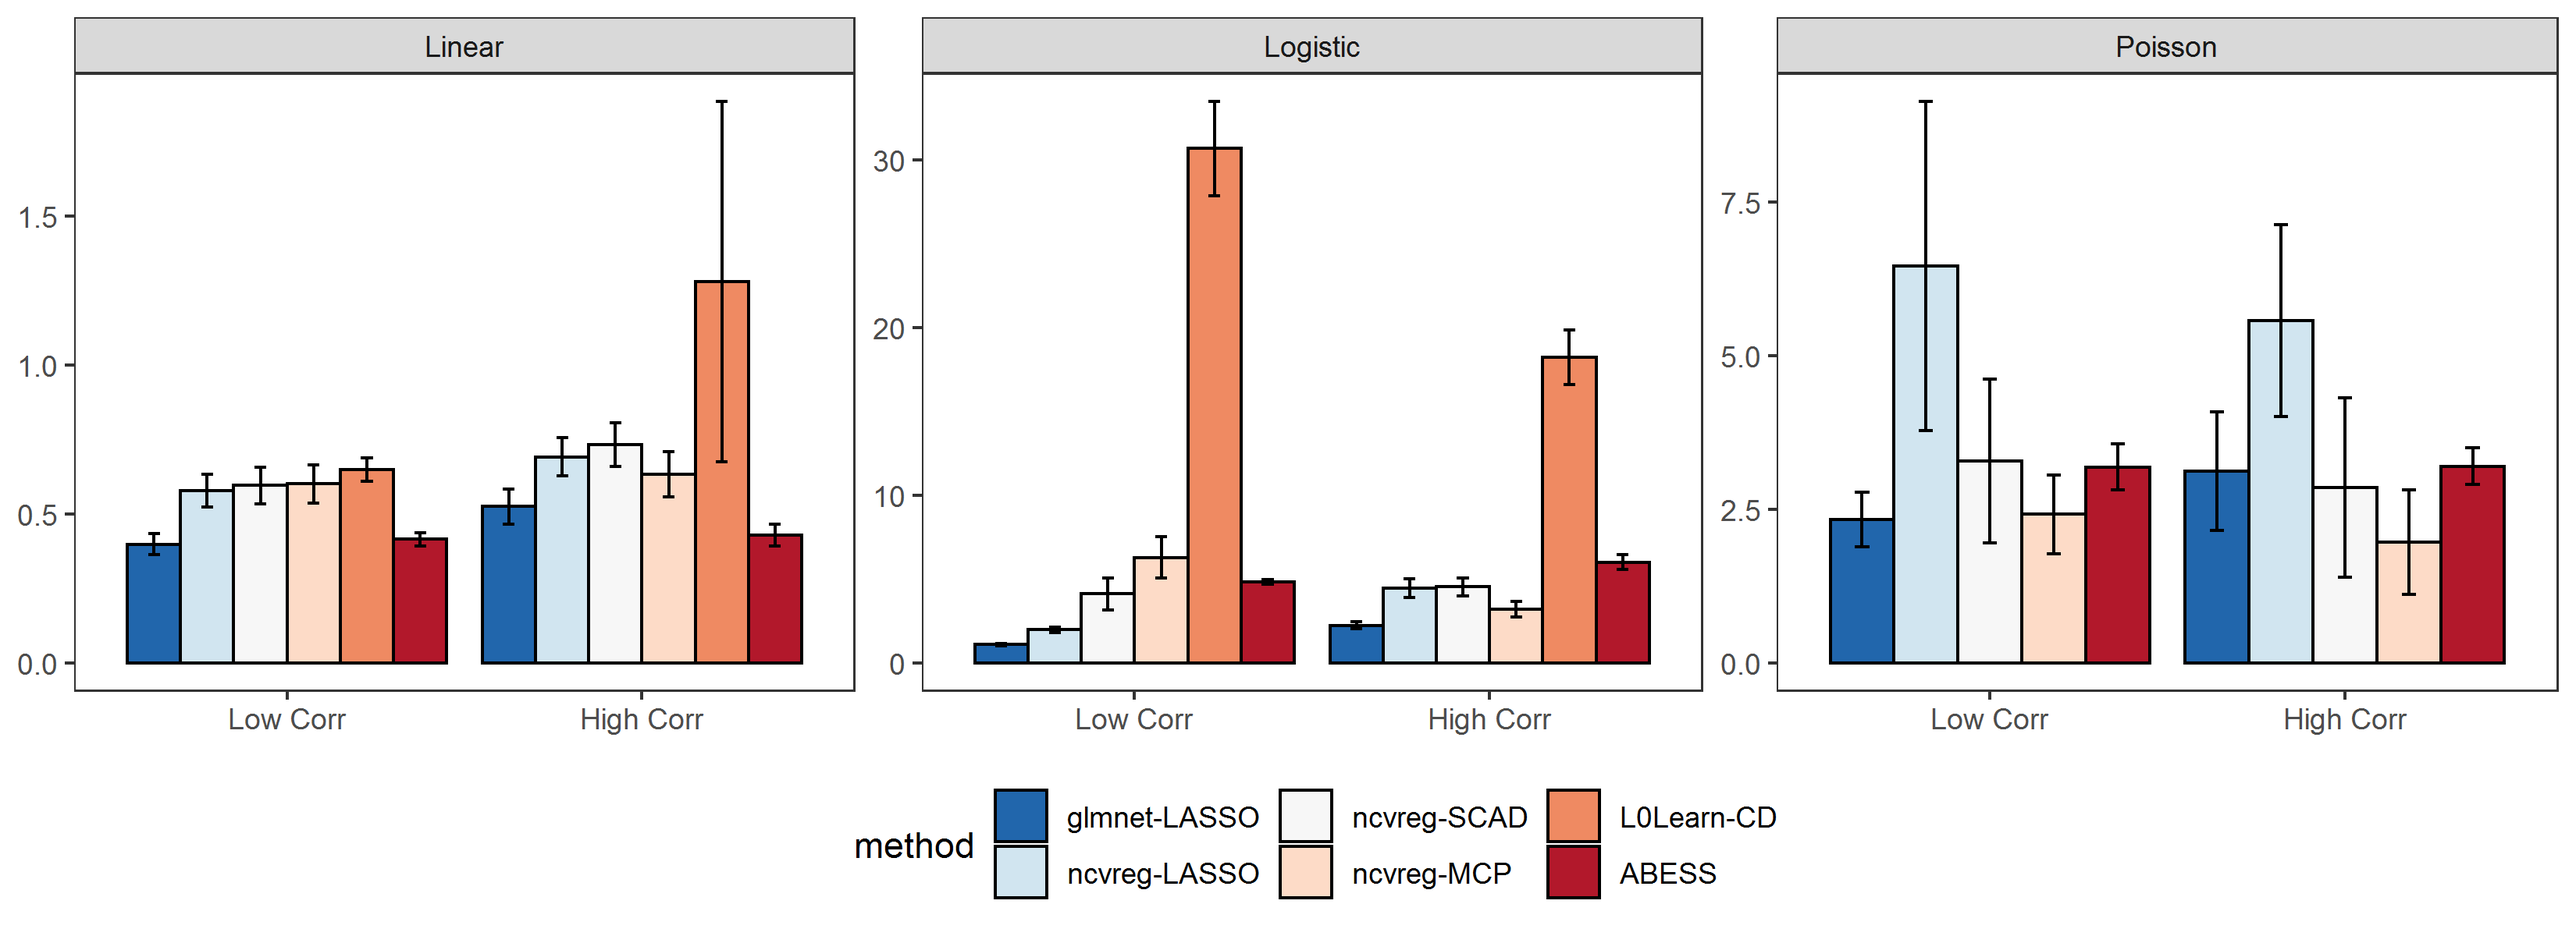
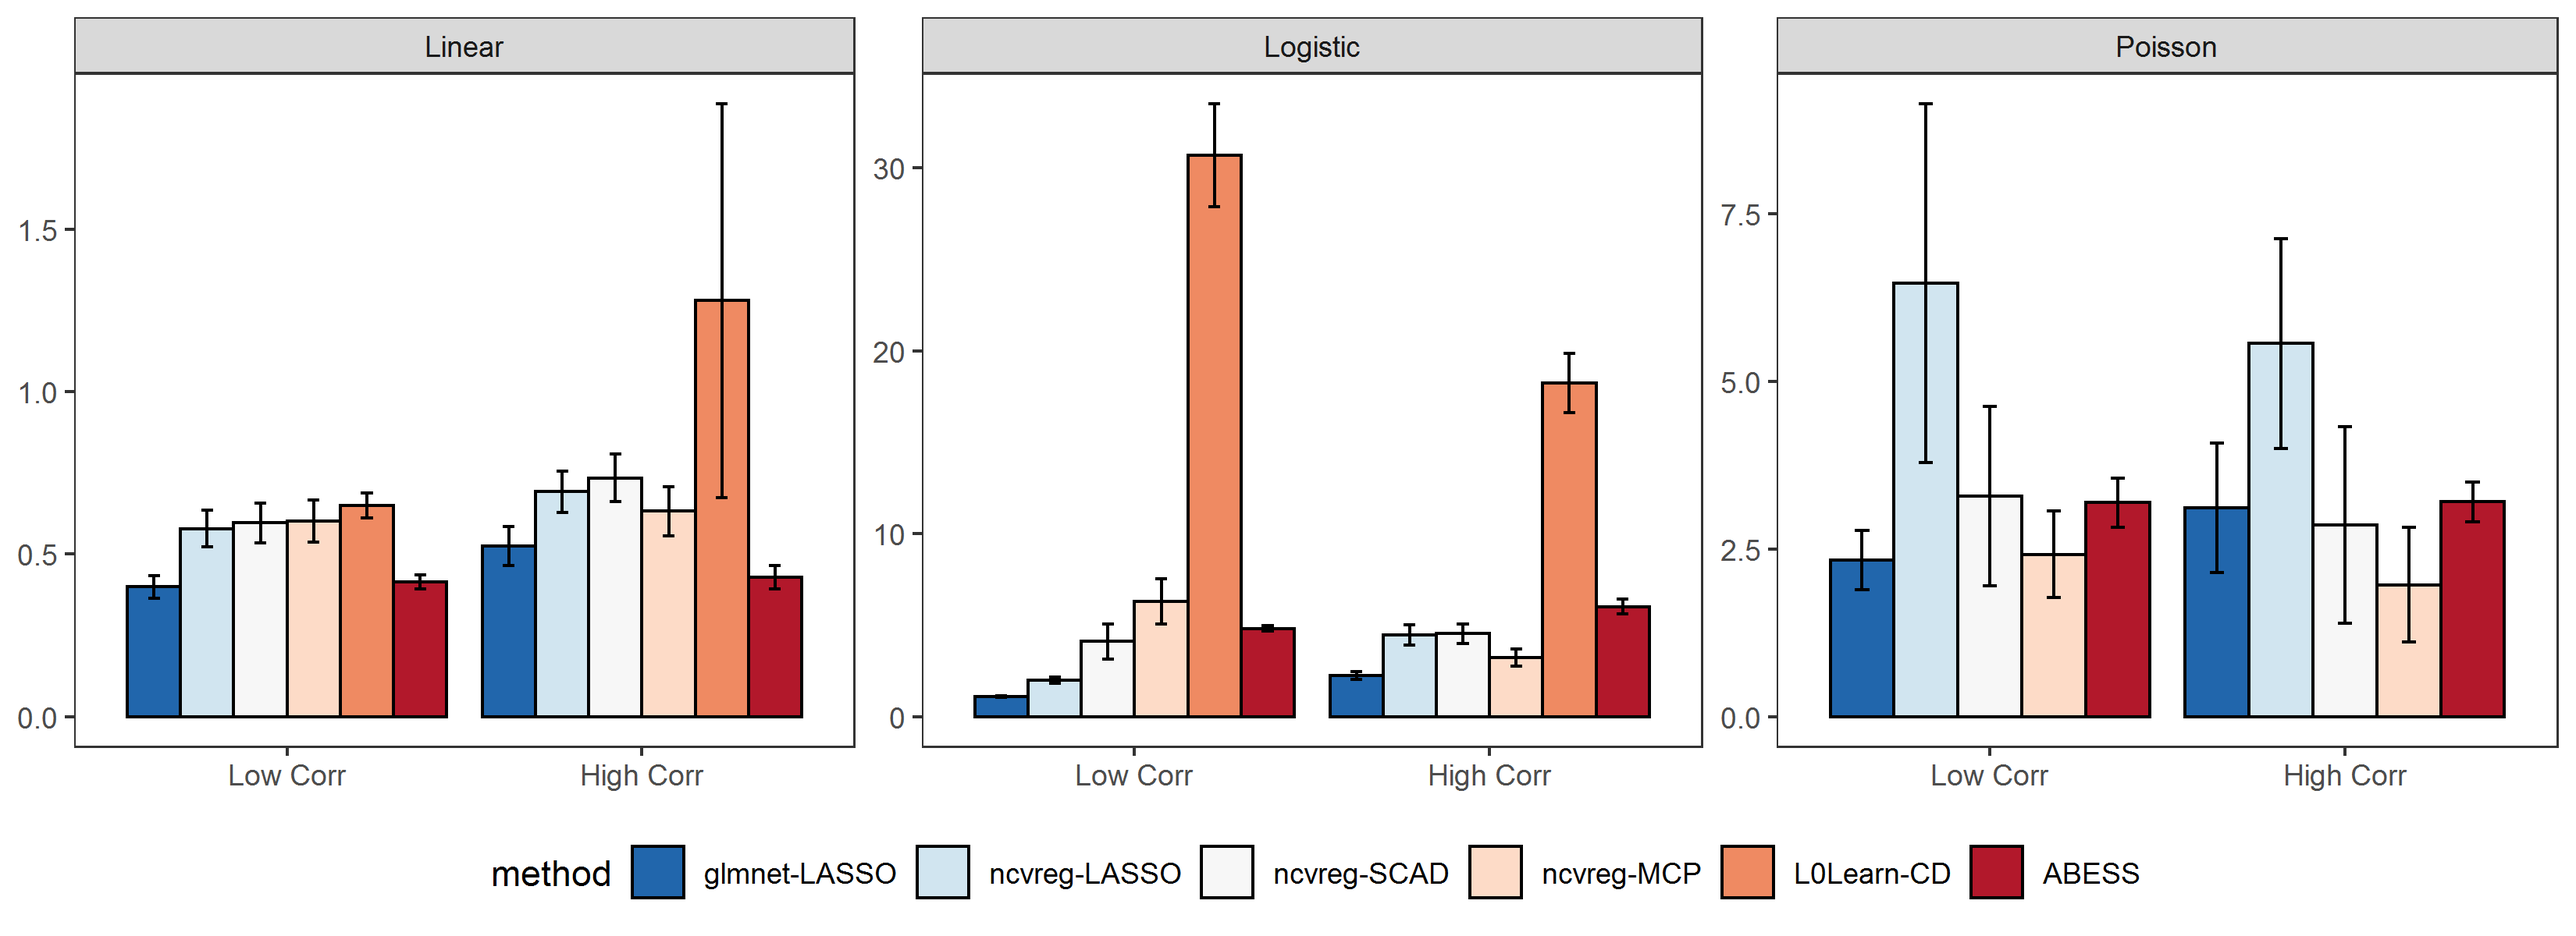
gendata

diff --git a/README.md b/README.md
@@ -44,18 +44,25 @@ install.packages("abess")
 
 To show the computational efficiency of abess, 
 we compare abess R package with popular R libraries: glmnet, ncvreg, picasso for linear, logistic and poisson regressions; 
-Timings of the CPU execution are recorded in seconds and averaged over 100 replications on a sequence
-of 100 regularization parameters.
+<!-- Timings of the CPU execution are recorded in seconds and averaged over 100 replications on a sequence
+of 100 regularization parameters. -->
+
+We consider three aspects. The first one is the prediction performance on a validation data set of size 1000. For linear and poisson regression, this is measured by $\|X\hat{\beta}-X\beta^*\|_2$ where $\hat{\beta}$ is the fitted coefficients and $\beta^*$ is the true coefficients. For the logistic regression, we use the AUC. The second is the selection performance in terms of true positive rate (TPR) and false positive rate (FPR). The third is the running time.
 
 The designed matrix is formed by i.i.d sample generated from a multivariate normal distribution with mean 0 and covariance matrix $\Sigma = (\sigma_{ij})$. We consider two settings—low correlation and high correlation. For the low correlation scenario, we set $\sigma_{ij} = 0.1^{|i-j|}$ and for the high correlation $\sigma_{ij} = 0.7$. The number of predictors is 1000. The true coefficient $\beta^*$ is a vector with 10 nonzero entries uniformly distributed in $[b,B]$. We set $b=5\sqrt{2\log(p)/n}$, $B = 100b$ for linear regression $b = 10\sqrt{2\log(p)/n}$, $B = 5*b$ for logistic regression and $b = -10 \sqrt{2  \log(p) / n}$, $B=10 \sqrt{2 \log(p) / n}$ for poisson regression. A random noise generated from a standard Gaussian distribution is added to the linear predictor $x^\prime\beta$ for linear regression. The size of training data is 500.
 All experiments are
-evaluated on an Intel(R) Xeon(R) CPU E5-2620 v4 @ 2.10GHz and under R version 3.6.1. 
+evaluated on an Intel(R) Xeon(R) CPU E5-2620 v4 @ 2.10GHz and under R version 3.6.1. for 100 replicas.
+
 
 ```r
 source("R-package/example/timing.R")
 ```
 
-Results are presented in the following picture. As a package solving best subset selection, abess reaches a high efficient performance especially in linear regression where it gives the fastest solution.
+Results are presented in the following table and figure. For all the scenarios, the L0-based estimators in L0Learn and abess show the best prediction performance with the abess performs better in terms of variable selection and efficiency. For linear regression, we see that the Lasso estimator in both glmnet and ncvreg has the largest prediction error compared with other estimators. With the increase in correlation, difficulties of identifying the sparsity structure increase for MCP (ncvreg) and SCAD (ncvreg). For logistic regression, abess shows a great advantage in efficiency compared with L0Learn. Here we see that it is difficult for L0-based method to identify all the true significant predictors in high correlation setting, but abess is generally the least likely to make a mistake. 
+For poisson regression, our abess package continues to exhibit the dominance of over prediction performance and variable selection. 
+Notably, as a package aiming at best subset selection, abess shows a competitive short run time, never been eclipsed by comparison with glmnet and ncvreg which are famous for high efficiency.
+
+<!-- Results are presented in the following picture. As a package solving best subset selection, abess reaches a high efficient performance especially in linear regression where it gives the fastest solution. -->
 
 ![avatar](R-package/vignettes/readmeTiming.png)
 
